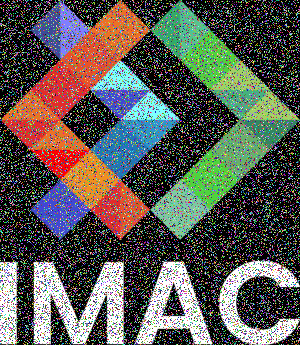
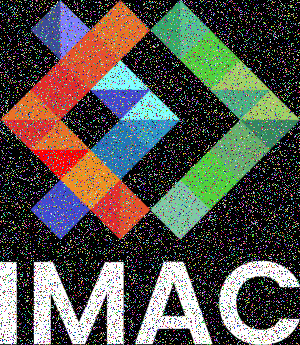
rapport markdown

diff --git a/src/main.cpp b/src/main.cpp
@@ -67,7 +67,7 @@ void noisy_image(sil::Image &image)
     {
         for (int y = 0; y < image.height(); y++)
         {
-            if (true_with_probability(0.3))
+            if (true_with_probability(0.2))
             {
                 image.pixel(x, y) = glm::vec3(random_float(0, 1), random_float(0, 1), random_float(0, 1));
             }
@@ -83,7 +83,7 @@ sil::Image rotation(sil::Image &image)
     {
         for (int y = 0; y < image.height(); y++)
         {
-            int new_x = image.height() - 1 - y;
+            int new_x = image.height() - (y + 1);
             int new_y = x;
             new_image.pixel(new_x, new_y) = image.pixel(x, y);
         }

diff --git a/README.md b/README.md
@@ -1,3 +1,50 @@
 # 🐣 S1 | Prog: Workshop
 
-Template de projet pour le workshop de prog des Imac1. Vous trouverez le sujet ici: https://dsmte.github.io/Learn--cpp_programming/Workshop
+# Rapport de projet 
+
+## Ne garder que le vert ##
+![alt text](output/keep_green_only.png)
+
+## Échanger les canaux ##
+![alt text](output/channels_swap.png)
+
+## Noir & Blanc ##
+![alt text](output/black_and_white.png)
+
+## Négatif ##
+![alt text](output/negative.png)
+
+## Dégradé ##
+![alt text](output/color_gradient.png)
+
+## Miroir ##
+![alt text](output/mirror.png)
+Au départ, quand je lançais mon programme, l’image restait la même alors que j’inversais bien les pixels. C’était parce que j’appliquais le swap sur toute la largeur/hauteur, ce qui annulait l’inversion en remettant les pixels à leur place d’origine. J’ai donc divisé la boucle par 2.
+
+## Image bruitée ##
+![alt text](output/noisy_image.png)
+
+## Rotation de 90° ##
+![alt text](output/rotation.png)
+Le point où j’ai eu un peu de mal est de remplacer l’ancienne image par la nouvelle et de gérer correctement les dimensions et coordonnées lors de la rotation sans écraser les pixels en cours de route.
+
+## RGB split ##
+![alt text](output/rgb_split.png)
+Au niveau du décalage horizontal des canaux, sortir des limites de l’image faisait planter le programme. J’ai dû utiliser std::min et std::max pour borner les coordonnées et empêcher le dépassement.
+
+## Luminosité ##
+![alt text](output/brightness.jpg)
+
+## Disque ##
+![alt text](output/disk.png)
+Je suis parti de l’inéquation `(x - a)² + (y - b)² < R²` pour tester la position de chaque pixel par rapport au centre. 
+
+## Cercle ##
+![alt text](output/circle.png)
+
+## Animation ##
+Le point sur lequel j’ai bloqué est que je n’avais pas pensé à faire une boucle extérieure pour itérer l’opération frame par frame, ce qui m’a fait placer la sauvegarde dans les boucles de pixels. J’ai aussi dû faire attention au nommage des fichiers via `std::to_string`.
+
+## Rosace ##
+![alt text](output/rosace.png)
+J’ai cherché comment passer de coordonnées polaires (angle et rayon) à des coordonnées cartésiennes (x et y), ce qui m’a permis d’utiliser `x = r × cos(θ) et y = r × sin(θ)` pour placer les centres des cercles et calculer la distance. J’ai aussi dû faire attention à ne pas effacer les cercles déjà tracés avec un else qui remet en noir, à répartir les angles sur 360° (60° pour 6 cercles), et à bien gérer les conversions int et float pour éviter les erreurs de compilation.
